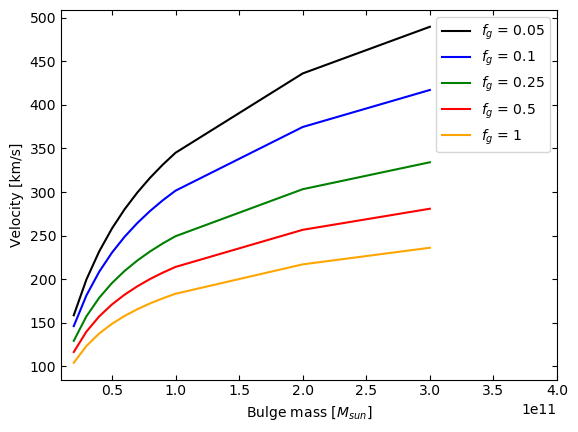
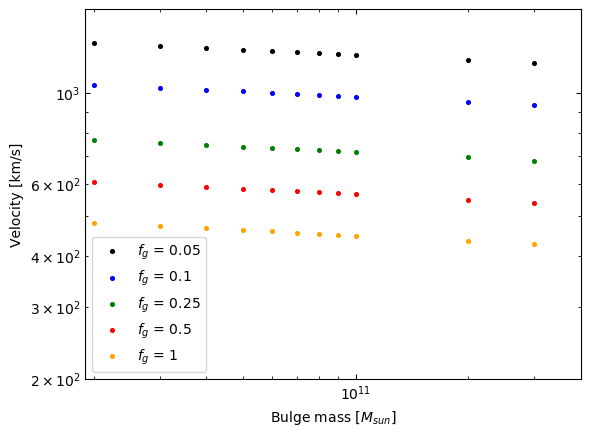
create better mbulge relation plots

diff --git a/plotting_program/plots/plotting_mbulge_relation.py b/plotting_program/plots/plotting_mbulge_relation.py
@@ -11,39 +11,49 @@ def plotting_mbulge_relation(dot_mass, dot_radius, additional_name):
     # print()
     dot_mass = np.array(dot_mass)
     ax.tick_params(axis='both', which='both', direction='in', top=True, right=True)
-    # ax.set_yscale('log')
-    # # ax.set_xscale('log')
-    # ax.set_ylabel('Mass outflow rate [$M_{sun}yr^{-1}$]')
-    # ax.set_xlabel('Bulge mass [$M_{sun}$]')
-    # # print(dot_mass)
-    # ax.set_ylim(900, 20000)
-    # ax.set_xlim(5.e9, 4.e11)
-    # # ax.plot([bulge_masses,bulge_masses,bulge_masses,bulge_masses,bulge_masses], [dot_mass[0,], dot_mass[1,], dot_mass[2,], dot_mass[3,], dot_mass[4,]])
-    # ax.scatter(bulge_masses, dot_mass[0,], label = labels[0], color = colors[0])
-    # ax.scatter(bulge_masses, dot_mass[1,], label = labels[1], color = colors[1])
-    # ax.scatter(bulge_masses, dot_mass[2,], label = labels[2], color = colors[2])
-    # ax.scatter(bulge_masses, dot_mass[3,], label = labels[3], color = colors[3])
-    # ax.scatter(bulge_masses, dot_mass[4,], label = labels[4], color = colors[4])
-    # ax.legend(loc='lower right')
-    # # ax.legend(loc='upper left')
-    # fig.savefig(graphs_path + plots_version_folder + 'dot-mass-bulge-mass-' + additional_name + '-sctr-log.png', bbox_inches='tight')
+    ax.set_yscale('log')
+    # ax.set_xscale('log')
+    ax.set_ylabel('Mass outflow rate [$M_{sun}yr^{-1}$]')
+    ax.set_xlabel('Bulge mass [$M_{sun}$]')
+    # print(dot_mass)
+    ax.set_ylim(900, 20000)
+    ax.set_xlim(5.e9, 4.e11)
+    # ax.plot([bulge_masses,bulge_masses,bulge_masses,bulge_masses,bulge_masses], [dot_mass[0,], dot_mass[1,], dot_mass[2,], dot_mass[3,], dot_mass[4,]])
+    ax.scatter(bulge_masses, dot_mass[0,], label = labels[0], color = colors[0], s=7)
+    ax.scatter(bulge_masses, dot_mass[1,], label = labels[1], color = colors[1], s=7)
+    ax.scatter(bulge_masses, dot_mass[2,], label = labels[2], color = colors[2], s=7)
+    ax.scatter(bulge_masses, dot_mass[3,], label = labels[3], color = colors[3], s=7)
+    ax.scatter(bulge_masses, dot_mass[4,], label = labels[4], color = colors[4], s=7)
+    # ax.plot(bulge_masses, dot_mass[0,], '--', color=colors[0], linewidth=1)
+    # ax.plot(bulge_masses, dot_mass[1,], '--', color=colors[1], linewidth=1)
+    # ax.plot(bulge_masses, dot_mass[2,], '--', color=colors[2], linewidth=1)
+    # ax.plot(bulge_masses, dot_mass[3,], '--', color=colors[3], linewidth=1)
+    # ax.plot(bulge_masses, dot_mass[4,], '--', color=colors[4], linewidth=1)
+    ax.legend(loc='upper right')
+    # ax.legend(loc='upper left')
+    fig.savefig(graphs_path + plots_version_folder + 'dot-mass-bulge-mass-' + additional_name + '-sctr-log.png', bbox_inches='tight')
 
     dot_radius = np.array(dot_radius)
-    ax.tick_params(axis='both', which='both', direction='in', top=True, right=True)
-    # ax.set_yscale('log')
-    # ax.set_xscale('log')
-    # print(dot_mass)
-    ax.set_xlim(1e10, 4e11)
-    ax.set_ylabel('Velocity [km/s]')
-    ax.set_xlabel('Bulge mass [$M_{sun}$]')
-    ax.plot(bulge_masses, dot_radius[0,], label = labels[0], color = colors[0])
-    ax.plot(bulge_masses, dot_radius[1,], label = labels[1], color = colors[1])
-    ax.plot(bulge_masses, dot_radius[2,], label = labels[2], color = colors[2])
-    ax.plot(bulge_masses, dot_radius[3,], label = labels[3], color = colors[3])
-    ax.plot(bulge_masses, dot_radius[4,], label = labels[4], color = colors[4])
-    # ax.legend(loc='lower right')
-    ax.legend(loc='upper right')
-    fig.savefig(graphs_path + plots_version_folder + 'dot-radius-bulge-mass-' + additional_name + '-sctr-log.png',
-                bbox_inches='tight')
-    # ax.plot(dot_mass[5,], bulge_masses)
-    # plt.show()
+   #  ax.tick_params(axis='both', which='both', direction='in', top=True, right=True)
+   #  ax.set_yscale('log')
+   #  ax.set_xscale('log')
+   #  # print(dot_mass)
+   #  ax.set_xlim(1.9e10, 4e11)
+   #  ax.set_ylim(200, 1600)
+   #  ax.set_ylabel('Velocity [km/s]')
+   #  ax.set_xlabel('Bulge mass [$M_{sun}$]')
+   #  ax.scatter(bulge_masses, dot_radius[0,], label = labels[0], color = colors[0], s=7)
+   #  ax.scatter(bulge_masses, dot_radius[1,], label = labels[1], color = colors[1], s=7)
+   #  ax.scatter(bulge_masses, dot_radius[2,], label = labels[2], color = colors[2], s=7)
+   #  ax.scatter(bulge_masses, dot_radius[3,], label = labels[3], color = colors[3], s=7)
+   #  ax.scatter(bulge_masses, dot_radius[4,], label = labels[4], color = colors[4], s=7)
+   #  ax.plot(bulge_masses, dot_radius[0,], '--', color=colors[0], linewidth=1)
+   #  ax.plot(bulge_masses, dot_radius[1,], '--', color=colors[1], linewidth=1)
+   #  ax.plot(bulge_masses, dot_radius[2,], '--', color=colors[2], linewidth=1)
+   #  ax.plot(bulge_masses, dot_radius[3,], '--', color=colors[3], linewidth=1)
+   #  ax.plot(bulge_masses, dot_radius[4,], '--', color=colors[4], linewidth=1)
+   #  ax.legend(loc='lower left')
+   #
+   #  fig.savefig(graphs_path + plots_version_folder + 'dot-radius-bulge-mass-' + additional_name + '-sctr-line-log.png',
+   #              bbox_inches='tight')
+   #

diff --git a/plotting_program/plots_main.py b/plotting_program/plots_main.py
@@ -48,14 +48,22 @@ for out_index in range(len(bulge_disc_totalmass_fractions)):
     temp_dot_mass = temp_dot_mass.transpose()
     # print(max(temp[:, 0]))
     for index, item in enumerate(temp_dot_mass[:, ]):
+        count = 0
+        for i in item:
+            if i > 0:
+                count = count + 1
+        dot_mass_one_point_arr[index][out_index] = np.nansum(item)/count
         # dot_mass_one_point_arr[index][out_index] = max(item)
-        dot_mass_one_point_arr[index][out_index] = np.nansum(item)/len(item)
 
-    # temp_velocity = np.where(radius_in_bulge_1d < bulge_scales[out_index], dot_radius_in_bulge_1d, 0)
-    temp_velocity = np.where(radius_in_bulge_1d < bulge_scales[out_index], dot_radius_in_bulge_1d, np.nan)
+    temp_velocity = np.where(radius_in_bulge_1d < bulge_scales[out_index], dot_radius_in_bulge_1d, 0)
+    # temp_velocity = np.where(radius_in_bulge_1d < bulge_scales[out_index], dot_radius_in_bulge_1d, np.nan)
     temp_velocity = temp_velocity.transpose()
     for index, item in enumerate(temp_velocity[:, ]):
-        dot_radius_one_point_arr[index][out_index] = np.nansum(item)/len(item)
+        count = 0
+        for i in item:
+            if i > 0:
+                count = count + 1
+        dot_radius_one_point_arr[index][out_index] = np.nansum(item)/count
         # dot_radius_one_point_arr[index][out_index] = max(item)
 
 plotting_mbulge_relation(dot_mass_one_point_arr, dot_radius_one_point_arr, 'average')
